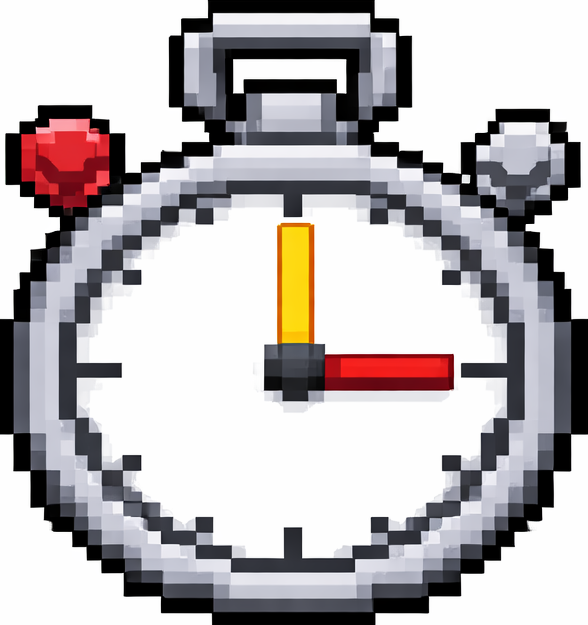
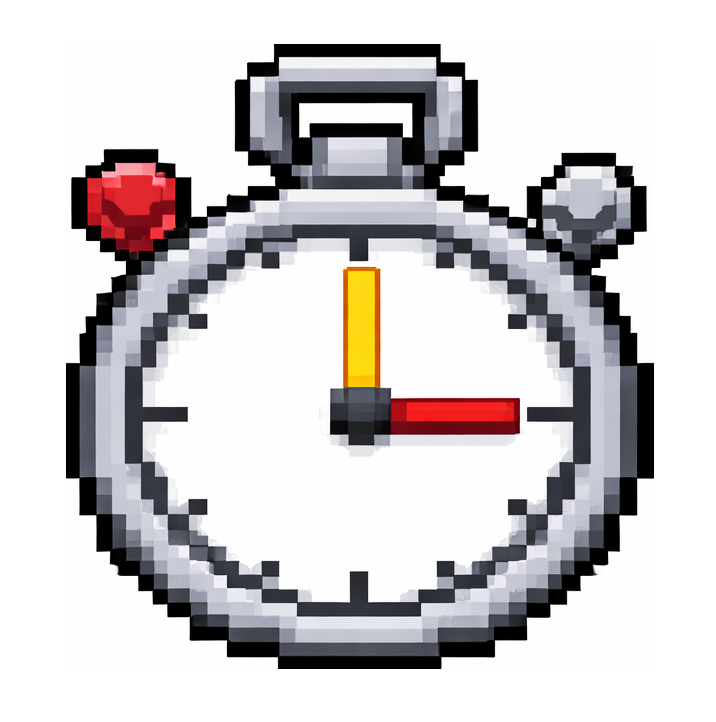
Bilder von Stoppuhr geändert und code angepasst

diff --git a/Code.py b/Code.py
@@ -1,5 +1,5 @@
 ### Hide and Seek ### Gil, Gimmy und Finnosaurus
-import pygame as py # abkürzung von pygame --> übersichtlicher und schneller bei code schreiben
+import pygame as py # abkürzung von pygame --> übersichtlicher und schneller bei code
 import random # damit wir die random funktion benutzen können
 
 
@@ -182,20 +182,18 @@ class Hindernis:
 
 # Stoppuhr -- musste angepasst werden weil die anzahl "elemente" breite und hoehe etc nicht den anderen einheitlich oben gleich waren --> führte zu immenser Frustration während vier tagen um herauszufinden was falsch war
 class Stoppuhr:
-    def __init__(self): 
-        self.image = load_img("Stoppuhr.png", (120, 120)) #"Stoppuhr.png" Bild von Chatgpt generieren lassen
+    def __init__(self):
+        self.image1 = load_img("Stoppuhr_1.png", (120, 120)) #"Stoppuhr_1.png" & "Stoppuhr_alarm.png" Bild von Chatgpt generieren lassen
+        self.image2 = load_img("Stoppuhr_alarm.png", (120, 120))
 
     def draw(self):
+        time = py.time.get_ticks()
        
-        sekunden = py.time.get_ticks() // 500 # definiert die sekunden mit 1000 ms einheit
-        
-        if sekunden % 2 == 0: # jede gerade sekunde wird stoppuhr kleiner 
-            bild = py.transform.scale(self.image, (100, 100)) # grösse von SToppuhr 
+        if (time // 400) % 2 == 0: # jede 400 ms werden die Bilder gewechselt # Die zeit dividuert durch 400ms und gerundet --> wenn gerade  Zahl dann image 1 gezeigt sonst image 2
+            screen.blit(self.image1, (670, 10)) # wo die Bilder auftauchen
         else:
-            # jede ungerade sekunde wird stoppuhr grösser
-            bild = py.transform.scale(self.image, (120, 120)) # Grösse von Stoppuhr
-
-        screen.blit(bild, (670, 10)) # beschreibt wo sich die Stoppuhr befindet
+            screen.blit(self.image2, (670, 10))
+            
         
 
 
